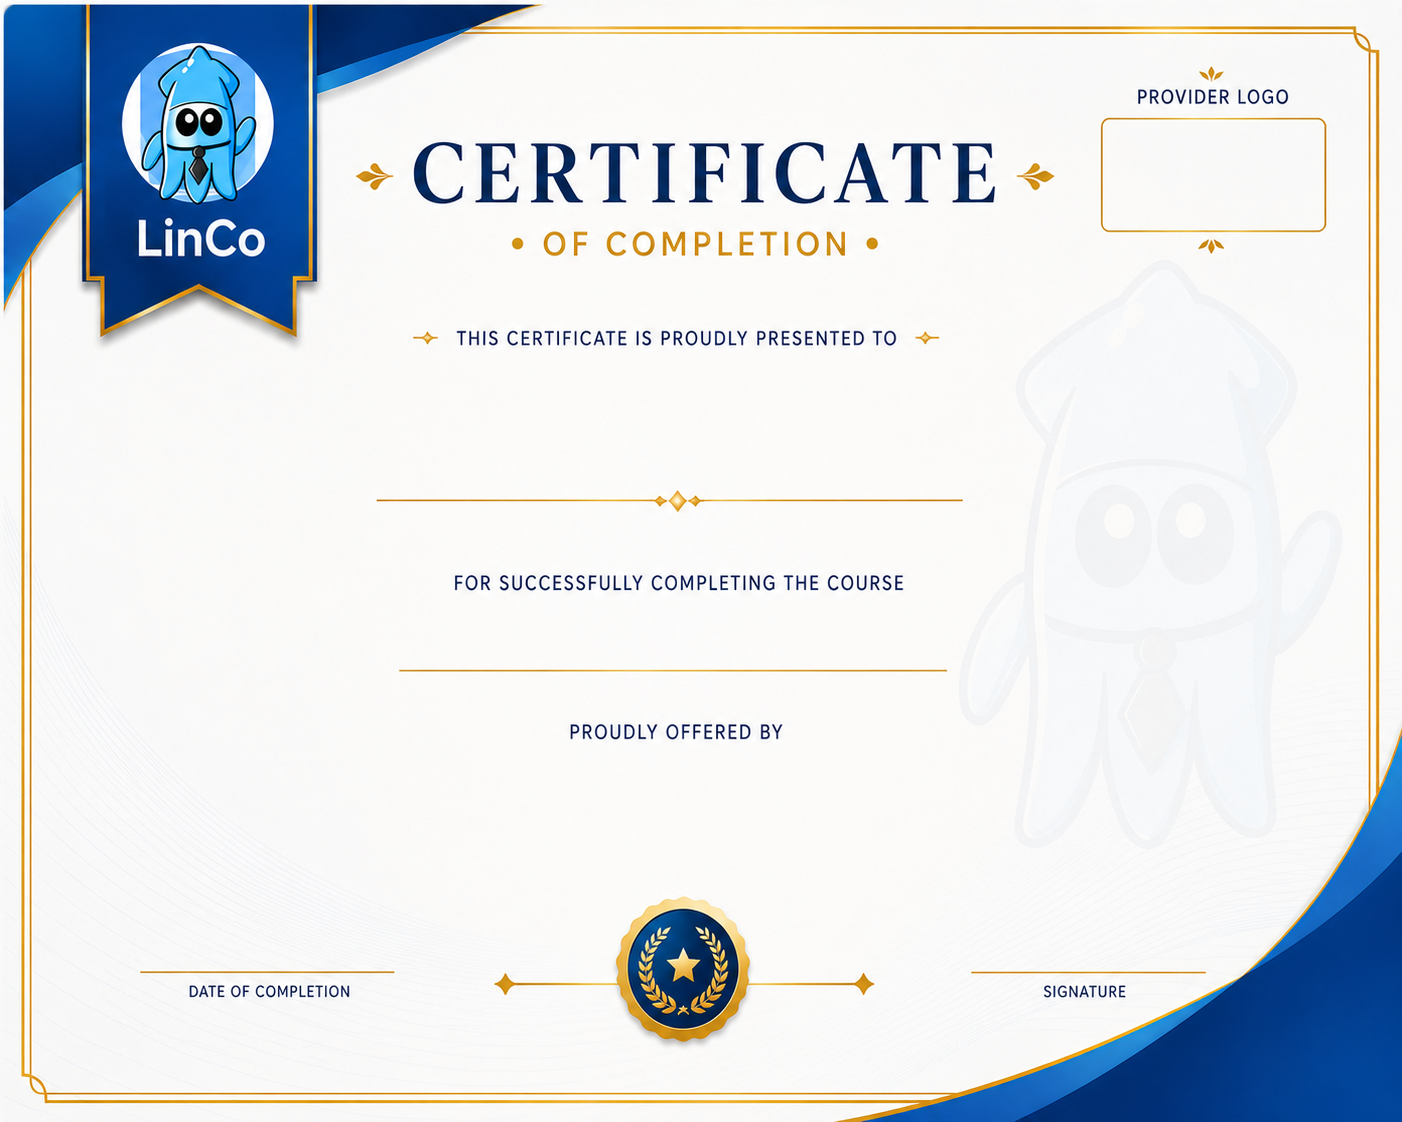
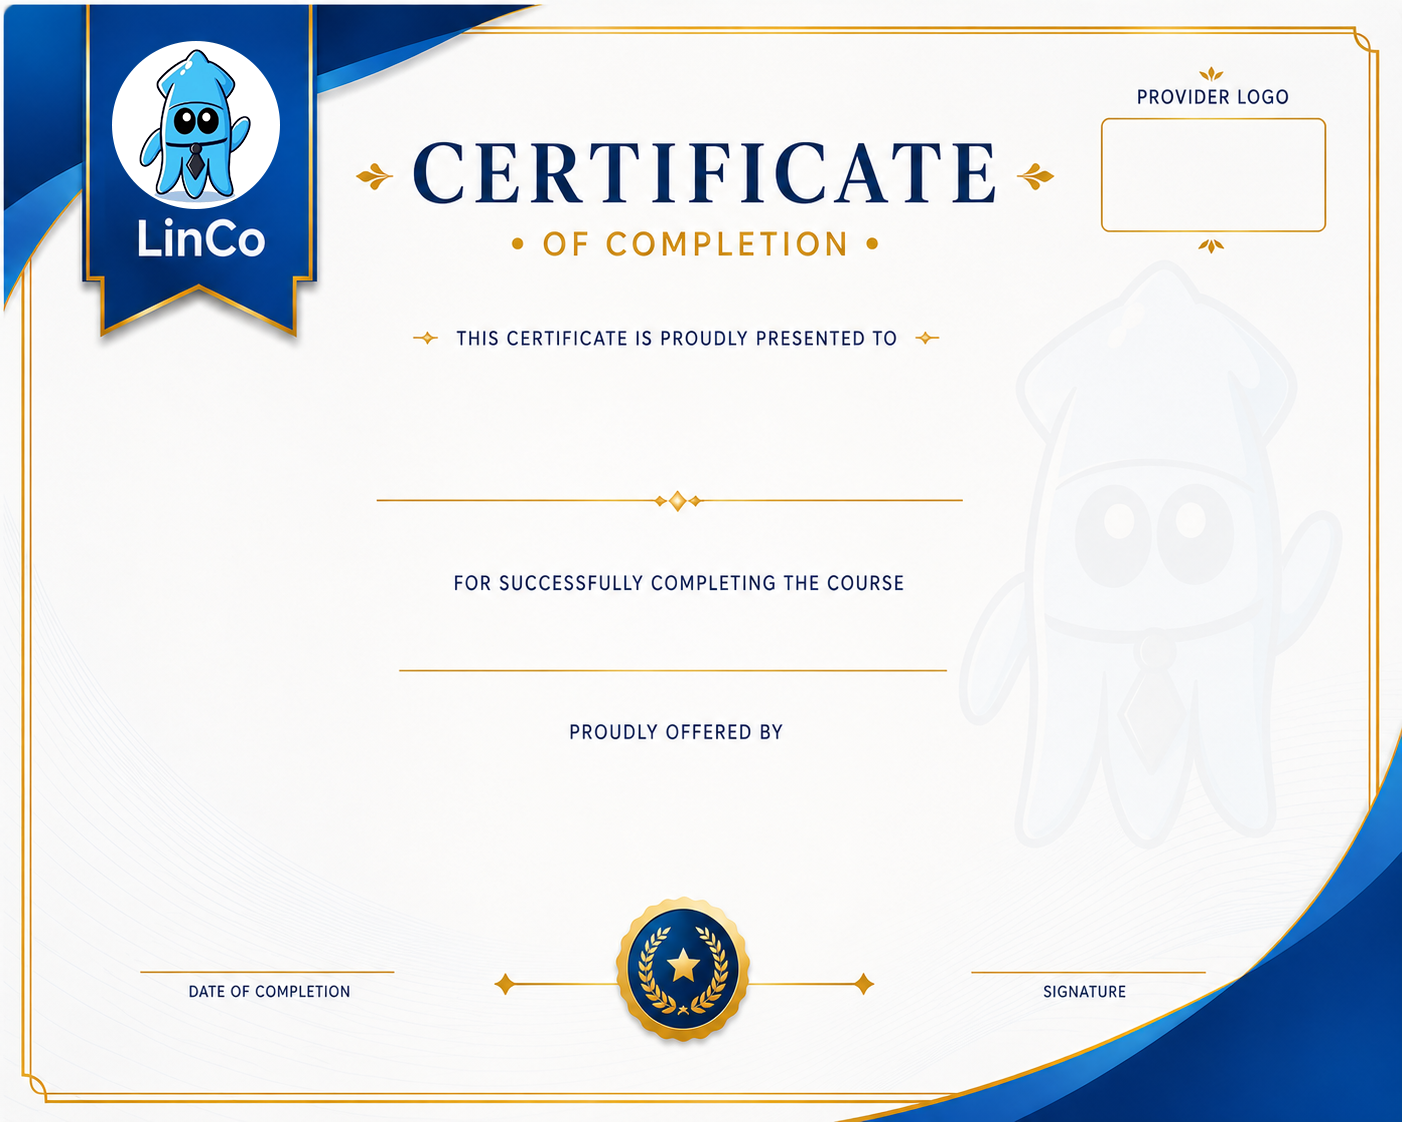
edits on certificate

Changed region(s): [[0.0613, 0.0312, 0.2147, 0.1872]]

diff --git a/src/features/Demo/Certificates/components/Certificates.module.css b/src/features/Demo/Certificates/components/Certificates.module.css
@@ -211,7 +211,7 @@
     transform 0.4s ease,
     box-shadow 0.4s ease;
   background-color: #ffffff;
-  container-type: inline-size;
+  container-type: inline-size; /* ضروري لعمل الـ cqw */
 }
 
 .certificateLayout:hover {
@@ -227,25 +227,26 @@
   pointer-events: none;
 }
 
+/* التنسيق المشترك للنصوص */
 .dynamicStudentName,
 .dynamicCourseName,
 .dynamicProviderName,
 .dynamicDate {
   position: absolute;
   color: #1e293b;
-  font-family: "Georgia", "Times New Roman", serif;
   text-align: center;
   white-space: nowrap;
-  transform: translateX(-50%);
 }
+
+/* ================= 💡 الإحداثيات الدقيقة بناءً على الصورة ================= */
 
 .dynamicProviderLogo {
   position: absolute;
-  top: 15.6%;
-  left: 85.8%;
+  top: 15%; /* تم وضعها بدقة في المربع أعلى اليمين */
+  left: 83.5%;
   transform: translate(-50%, -50%);
   width: 12%;
-  height: 8%;
+  height: 9%;
   display: flex;
   justify-content: center;
   align-items: center;
@@ -257,48 +258,65 @@
 }
 
 .dynamicStudentName {
-  top: 36.5%;
+  top: 48%; /* تتوسط المسافة أعلى الخط الذهبي الأول */
   left: 50%;
-  font-size: 3.8cqw;
-  font-style: italic;
+  transform: translate(-50%, -50%);
+  font-family:
+    "Playfair Display", "Merriweather", "Times New Roman", serif; /* خط أنيق للأسماء */
+  font-size: 3.5cqw;
   font-weight: 500;
   width: 80%;
+  color: #111827;
 }
 
 .dynamicCourseName {
-  top: 56.5%;
+  top: 66%; /* تتوسط المسافة أعلى الخط الذهبي الثاني */
   left: 50%;
+  transform: translate(-50%, -50%);
+  font-family: "Playfair Display", "Merriweather", "Times New Roman", serif;
   font-size: 2.2cqw;
   font-weight: 600;
   width: 80%;
+  color: #374151;
 }
 
 .dynamicProviderName {
-  top: 71%;
+  top: 79%; /* تقع تحت عبارة Proudly Offered By */
   left: 50%;
-  font-size: 1.8cqw;
-  font-weight: 500;
+  transform: translate(-50%, -50%);
+  font-family: var(
+    --font-sans,
+    "Segoe UI",
+    sans-serif
+  ); /* خط حديث ومقروء لمزود الدورة */
+  font-size: 1.5cqw;
+  font-weight: 600;
+  letter-spacing: 0.5px;
   width: 80%;
+  color: #334155;
 }
 
 .dynamicDate {
-  bottom: 14.5%;
-  left: 17.5%;
-  font-size: 1.4cqw;
-  font-weight: 600;
+  bottom: 21.5%; /* تقع فوق الخط الصغير أسفل اليسار */
+  left: 20%;
+  transform: translateX(-50%);
+  font-family: "Playfair Display", "Times New Roman", serif;
+  font-size: 1.3cqw;
+  font-weight: 500;
   width: 25%;
+  color: #1f2937;
 }
 
 .dynamicSignature {
   position: absolute;
-  bottom: 14.5%;
-  left: 82.5%;
+  bottom: 18%; /* تقع فوق الخط الصغير أسفل اليمين تماماً */
+  left: 80%;
   transform: translateX(-50%);
   width: 15%;
-  height: 6%;
+  height: 8%;
   display: flex;
   justify-content: center;
-  align-items: flex-end;
+  align-items: flex-end; /* لضمان استناد الصورة على الخط السُفلي */
 }
 .dynamicSignature img {
   max-width: 100%;
